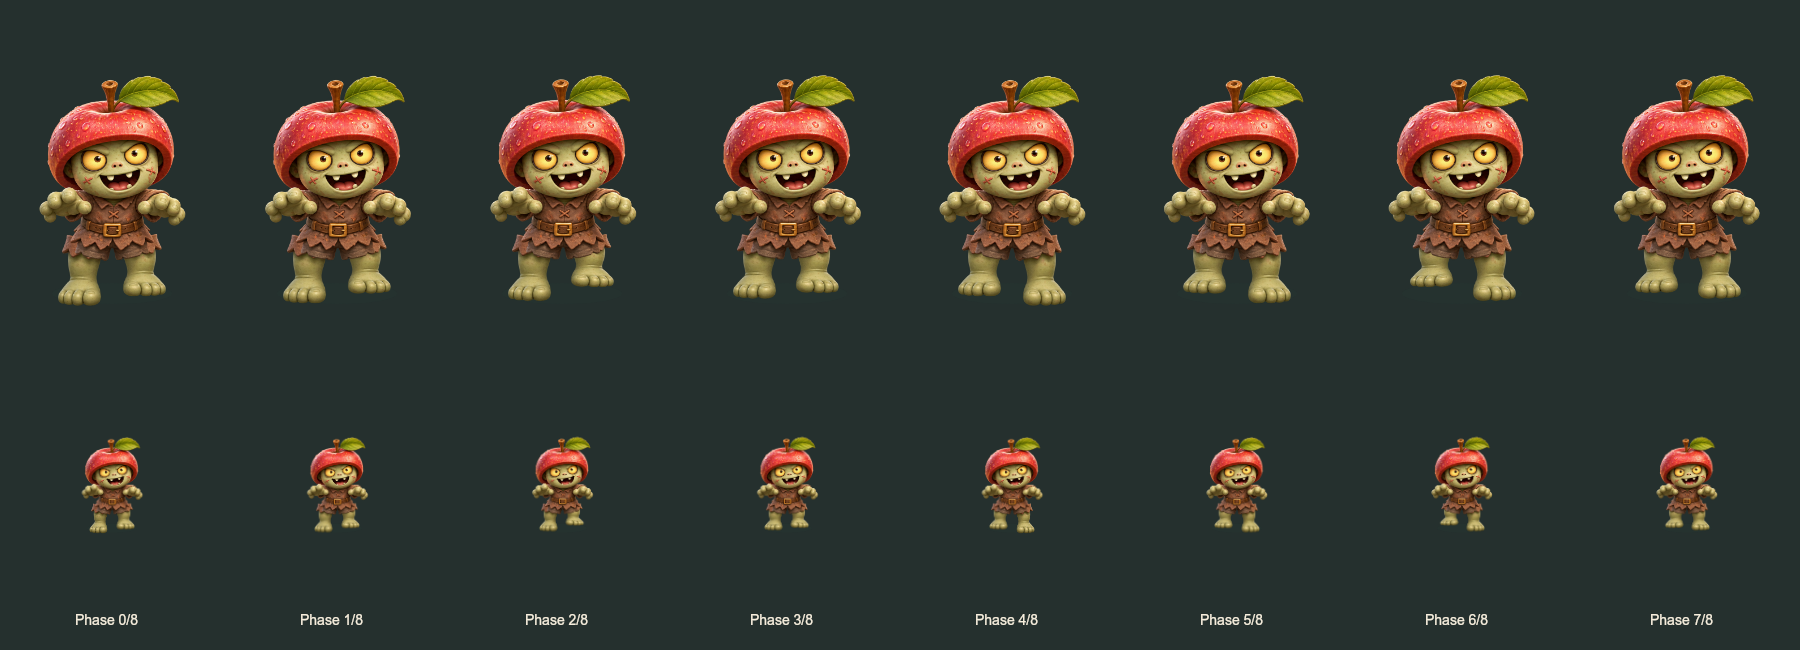
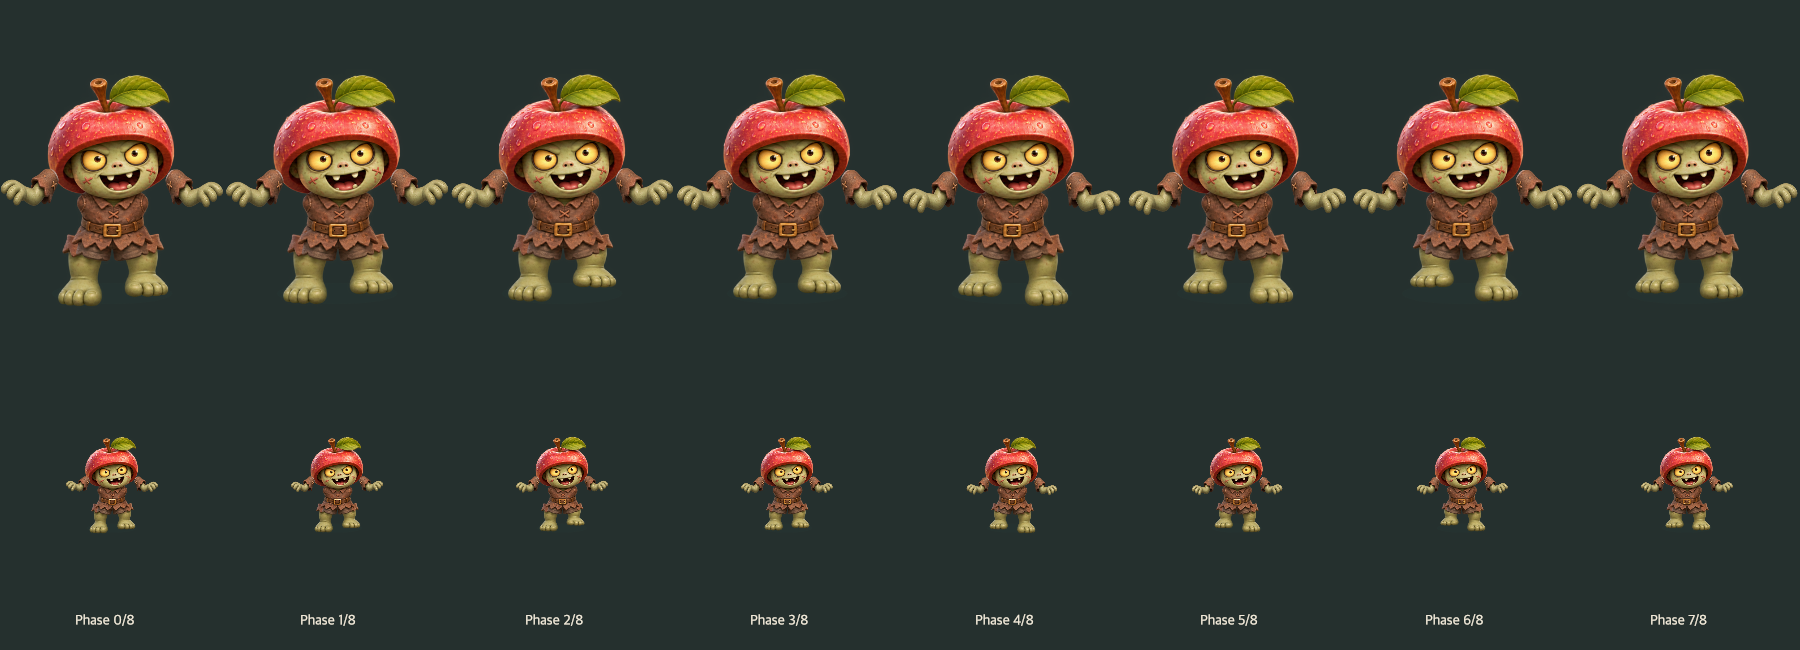
feat: articulate apple zombie arms (#99)

diff --git a/miniprogram/fortress/canvas-scene.ts b/miniprogram/fortress/canvas-scene.ts
@@ -38,6 +38,7 @@ export interface MonsterArt {
   readonly outfitBodies?: Readonly<Record<string, SpriteAsset>>;
   readonly bossBodies?: Readonly<Partial<Record<'iron' | 'grand', SpriteAsset>>>;
   readonly texturedBodies?: Readonly<Record<string, SpriteAsset>>;
+  readonly texturedArms?: Readonly<Record<string, SpriteAsset>>;
   readonly outfitColors?: Readonly<Record<string, string>>;
   readonly fruitHats?: Readonly<Record<string, SpriteAsset>>;
   readonly walkParts?: { readonly body: SpriteAsset; readonly left: SpriteAsset; readonly right: SpriteAsset };
@@ -54,7 +55,7 @@ export interface SceneArt extends MonsterArt {
 }
 // Shared by runtime loading and offline resource budgets.
 export function sceneImageAssets(art: SceneArt, levelId = 1, houseLevel = 1): SpriteAsset[] {
-  const assets = [art.monster, art.base, art.destroyedBase, art.hero, art.weapon, art.bullet, ...(art.fruitHat ? [art.fruitHat] : []), ...(art.walkParts ? Object.values(art.walkParts) : []), ...Object.values(art.outfitBodies ?? {}), ...Object.values(art.texturedBodies ?? {}), ...Object.values(art.bossBodies ?? {}), ...Object.values(art.fruitHats ?? {}), ...SOLDIER_SPRITES, BATTLE_PET_ART];
+  const assets = [art.monster, art.base, art.destroyedBase, art.hero, art.weapon, art.bullet, ...(art.fruitHat ? [art.fruitHat] : []), ...(art.walkParts ? Object.values(art.walkParts) : []), ...Object.values(art.outfitBodies ?? {}), ...Object.values(art.texturedBodies ?? {}), ...Object.values(art.texturedArms ?? {}), ...Object.values(art.bossBodies ?? {}), ...Object.values(art.fruitHats ?? {}), ...SOLDIER_SPRITES, BATTLE_PET_ART];
   if (guardianRigForPath(art.hero.path)) assets.push(GUARDIAN_BODY);
   const courtyard = art.fruitHat && courtyardAsset(levelId);
   // Preload both orientations so resize can switch immediately while paused or active.
@@ -537,9 +538,12 @@ export class CanvasScene {
           const image = this.images.get(monsterArt.texturedBodies[monster.wordId].path);
           if (!image) throw new Error('已预载图片丢失');
           c.save(); c.translate(monster.position.x, monster.position.y); c.scale(scale, scale);
-          const drawBody = monsterArt.texturedBodies[monster.wordId].path === APPLE_ZOMBIE_PARTS.path
-            ? drawAppleZombieParts : drawTexturedZombie;
-          drawBody(c, image, zombieGait(monster, motionSeed));
+          const arms = monsterArt.texturedArms?.[monster.wordId];
+          const armImage = arms && this.images.get(arms.path);
+          if (monsterArt.texturedBodies[monster.wordId].path === APPLE_ZOMBIE_PARTS.path) {
+            if (!armImage) throw new Error('已预载图片丢失');
+            drawAppleZombieParts(c, image, armImage, zombieGait(monster, motionSeed));
+          } else drawTexturedZombie(c, image, zombieGait(monster, motionSeed));
           c.restore();
         } else if (monsterArt.walkParts) {
           const gait = zombieGait(monster, motionSeed);

diff --git a/miniprogram/fortress/zombie-art.ts b/miniprogram/fortress/zombie-art.ts
@@ -3,9 +3,19 @@ import type { SpriteAsset } from './canvas-scene';
 import type { BossPose } from './boss-pose';
 
 export const APPLE_ZOMBIE_PARTS: SpriteAsset = {
-  path: '/character-assets/zombie-apple-parts.png',
-  source: 'docs/visual-audit/enemies/approved-parts/apple-parts-01.png',
-  rights: '项目内置 image_gen，已批准新造型母版；运行视觉及设备验收待完成',
+  path: '/character-assets/zombie-apple-torso-rig-v1.png',
+  source: 'docs/visual-audit/enemies/approved-parts/apple-torso-rig-study-01.png',
+  rights: '项目内置 image_gen，已批准苹果僵尸母版派生的无臂躯干；运行视觉及设备验收待完成',
+  approved: true,
+};
+
+/** A separate atlas lets the walk use a shoulder pivot instead of baking two
+ * static arms into the torso. It deliberately remains in character-assets
+ * with the torso, so category loading and retry stay atomic. */
+export const APPLE_ZOMBIE_ARMS: SpriteAsset = {
+  path: '/character-assets/zombie-apple-arms-rig-v1.png',
+  source: 'docs/visual-audit/enemies/approved-parts/apple-arms-rig-study-02.png',
+  rights: '项目内置 image_gen，已批准苹果僵尸母版派生的双臂；运行视觉及设备验收待完成',
   approved: true,
 };
 
@@ -46,7 +56,7 @@ export function drawBossZombieParts(
  */
 export function drawAppleZombieParts(
   c: WechatMiniprogram.CanvasRenderingContext.CanvasRenderingContext2D,
-  image: WechatMiniprogram.Image, gait: GaitPose,
+  image: WechatMiniprogram.Image, arms: WechatMiniprogram.Image, gait: GaitPose,
 ): void {
   const sx = image.width / 2048, sy = image.height / 683;
   c.fillStyle = 'rgba(37,62,56,.16)';
@@ -60,6 +70,21 @@ export function drawAppleZombieParts(
   }
   c.drawImage(image, 90 * sx, 0, 530 * sx, 645 * sy,
     -53 + gait.sway, -80 + gait.bob, 106, 129);
+  const armSx = arms.width / 2048, armSy = arms.height / 683;
+  for (const [index, side] of [-1, 1].entries()) {
+    const foot = gait.feet[index];
+    // The source arm runs sleeve → hand from left to right. Mirroring it on
+    // the left keeps each sleeve rooted at the shoulder while the free hand
+    // swings in opposition to that side's planted foot.
+    // Overlap the shirt edge slightly. The alpha edge of the generated sleeve
+    // begins a few pixels into its crop, so a nominal ±42 shoulder placement
+    // left a visible seam at actual battle size.
+    c.save(); c.translate(side * 33, -5 + gait.bob); c.scale(side, 1);
+    c.rotate((foot.travel * .11 - foot.lift * .05) * side);
+    c.drawImage(arms, 320 * armSx, 270 * armSy, 650 * armSx, 300 * armSy,
+      0, -8, 62, 39);
+    c.restore();
+  }
 }
 
 export const TEXTURED_APPLE_ZOMBIE: SpriteAsset = {

diff --git a/miniprogram/fortress/opening-encounter.ts b/miniprogram/fortress/opening-encounter.ts
@@ -1,7 +1,7 @@
 import { guardianRig } from './guardian-rig';
 import { drawEnemyType } from './enemy-types';
 import { heroVariant } from './hero-art';
-import { APPLE_ZOMBIE_PARTS, BOSS_ZOMBIE_PARTS } from './zombie-art';
+import { APPLE_ZOMBIE_ARMS, APPLE_ZOMBIE_PARTS, BOSS_ZOMBIE_PARTS } from './zombie-art';
 import type { SkillCollection } from './skill-quality';
 import { difficultyFor } from './difficulty';
 import type { DifficultyId } from './difficulty';
@@ -53,6 +53,7 @@ export function openingArt(wordId: string, wordIds: readonly string[] = [wordId]
   return { animalIds: wordIds.filter(id => ANIMAL_IDS.includes(id)), monster: original('zombie'), monsterWidth: 40,
     bossBodies: BOSS_ZOMBIE_PARTS,
     texturedBodies: wordIds.includes('apple') ? { apple: APPLE_ZOMBIE_PARTS } : {},
+    texturedArms: wordIds.includes('apple') ? { apple: APPLE_ZOMBIE_ARMS } : {},
     outfitBodies: Object.fromEntries([...new Set(wordIds)].map(id => { if (!BATTLE_WORDS.some(word => word.id === id)) throw new Error('未知单词'); return [id, original(getLevel(1).words.some(word => word.id === id) ? `zombie-body-${id}` : getLevel(2).words.some(word => word.id === id) ? `zombie-body-${id}` : 'zombie-body')]; })),
     outfitColors: Object.fromEntries([...new Set(wordIds)].map(id => { if (!BATTLE_WORDS.some(word => word.id === id)) throw new Error('未知单词'); return [id, OUTFIT_COLORS[id] ?? '#a28a6e']; })),
     walkParts: { body: original('zombie-body'), left: original('zombie-leg-left'), right: original('zombie-leg-right') },

diff --git a/tests/battlefield-assets.test.ts b/tests/battlefield-assets.test.ts
@@ -121,7 +121,7 @@ test('角色包超时后的迟到成功不能提前完成重试', async () => {
 
 test('精细角色仅在新包中保留一份运行资源', () => {
   const root = new URL('../miniprogram/', import.meta.url);
-  for (const name of ['hero-back-weapon-1-textured.png', 'zombie-apple-textured.png', 'zombie-apple-parts.png']) {
+  for (const name of ['hero-back-weapon-1-textured.png', 'zombie-apple-textured.png', 'zombie-apple-torso-rig-v1.png', 'zombie-apple-arms-rig-v1.png']) {
     assert.ok(existsSync(new URL(`character-assets/${name}`, root)));
     assert.equal(existsSync(new URL(`assets/images/fortress/${name}`, root)), false);
   }

diff --git a/docs/visual-audit/enemies/approved-parts/README.md b/docs/visual-audit/enemies/approved-parts/README.md
@@ -29,3 +29,17 @@
 2026-11-11 后续已补充 [两类 Boss 指定波次连续回放](boss-motion/README.md) 和与既有攻击阶段同步的身体随动，项目检查及535项测试通过；该回放从声明装备的指定波次开始，仍不等于从第一波开始的完整通关。
 
 其他普通词条与特殊兵种仍有旧身体。两类 Boss 的自然入场、冲锋/蓄力/冲击波、混战、受击与退场连续回放及完整动作部件仍需继续；当前仅身体和腿部独立，双臂/盾牌尚未独立关节化。宽屏边缘动态、视觉命中与碰撞贴合、透明边缘精修、小尺寸词条可读性仍需审查。用户整场视觉、微信编译和真机验收尚未完成。#92 / #98 保持开放，不以本轮自动测试或离屏截图关闭。
+
+### 2026-11-11 苹果僵尸三部件步态
+
+此前候选与完整躯干重叠造成四臂，已明确拒绝。本轮以获批准的
+`apple-parts-01.png` 为唯一输入，先精确移除躯干中的双臂，再生成同尺度的
+透明双臂。运行时使用无臂躯干、双臂和原有双腿三部分：手臂在肩线处轻微反向
+摆动，抵达防线后与现有落脚收势同步；不改移动、攻击、碰撞或战斗时钟。
+
+审样已覆盖八相位、浅深背景以及 DPR2 的实际逻辑尺寸，见
+`runtime/apple-walk-{light,dark}.png`。新的运行资源为
+`zombie-apple-torso-rig-v1.png` 与 `zombie-apple-arms-rig-v1.png`；已移除不再
+引用的旧 `zombie-apple-parts.png` 运行副本，角色分包源码预算为 2029.1 KiB / 2048 KiB。
+两张母版、提示词、尺寸和哈希在 manifest 中可追溯。自动化与离屏审样不替代
+微信编译、真机或用户视觉验收；Boss 和待审特殊敌人不受本项影响。
